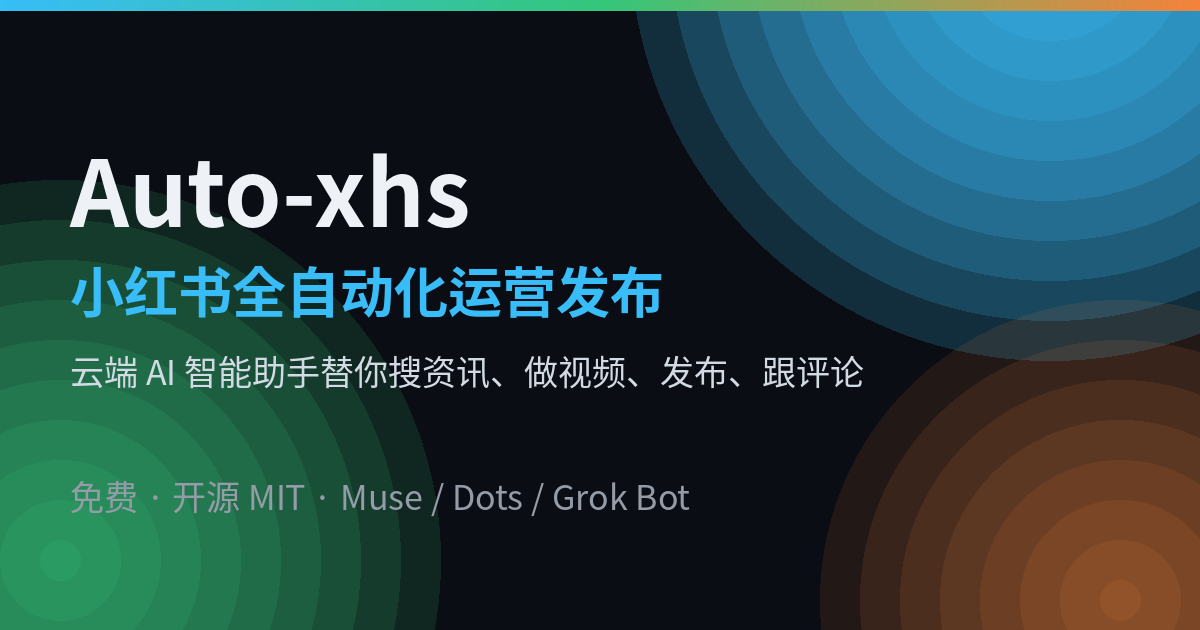
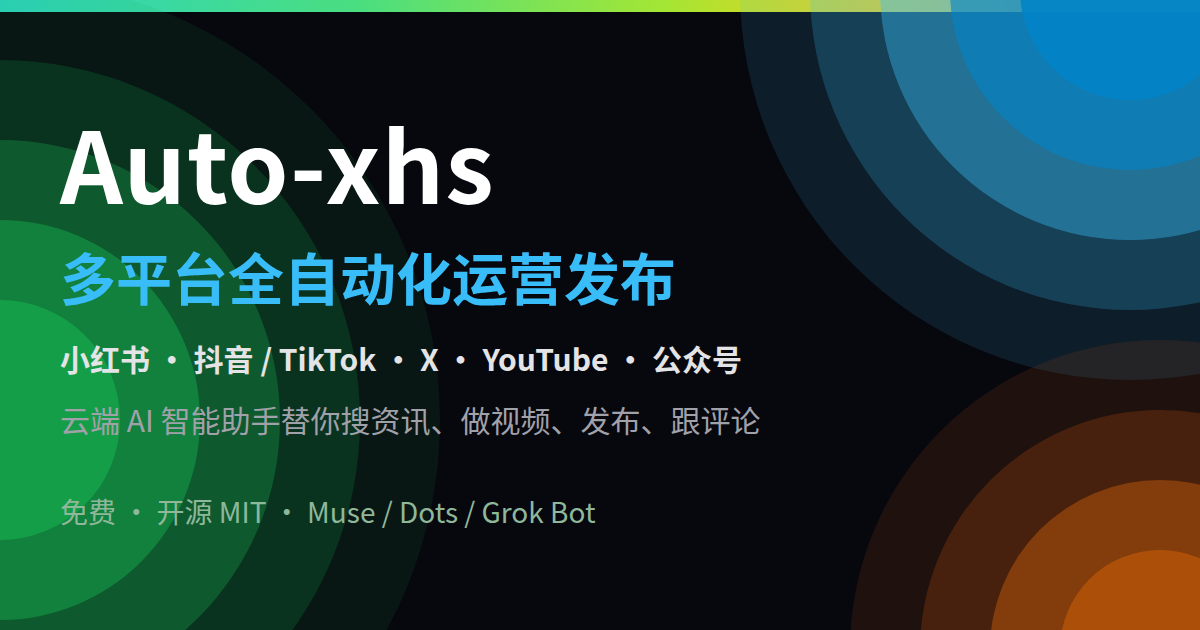
横幅图改多平台：中文版换字、英文版新增，两版同版式

diff --git a/README.md b/README.md
@@ -1,5 +1,5 @@
 <p align="center">
-  <img src="docs/assets/banner.png" alt="Auto-xhs" width="760">
+  <img src="docs/assets/banner-en.png" alt="Auto-xhs" width="760">
 </p>
 
 <h1 align="center">Multi-platform automated operation and publishing (Xiaohongshu / Douyin / TikTok / X / YouTube / WeChat Official Accounts, for Muse, Dots, and Grok Bot)</h1>
